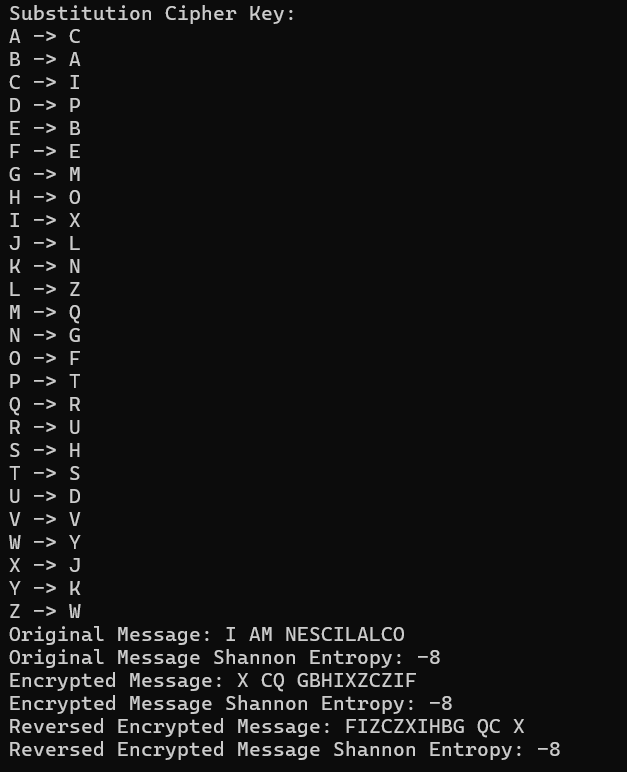
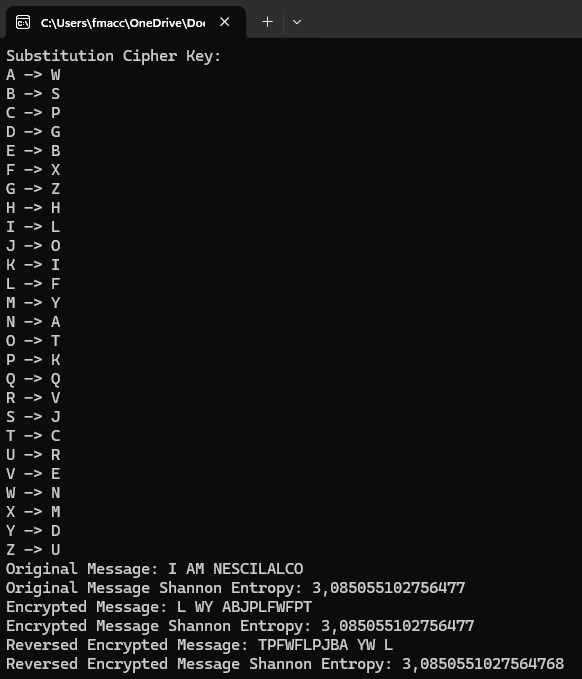
mod

Changed region(s): [[0.0, 0.0, 1.0, 0.9897]]

diff --git a/homework9.html b/homework9.html
@@ -67,6 +67,8 @@
 
                     <h1 class="major">Theory/Research</h1>
 
+                    <h2>Part 1</h2>
+                    <hr>
                     <h2>Main Properties of the Sampling Mean and Variance</h2>
 
                     <h3>Sampling Mean (\( \bar{X} \))</h3>
@@ -150,7 +152,9 @@
             </div>
             <div class="wrapper">
                 <div class="inner">
-                    <h3>Fundamental Ideas of Main Encryption Methods and Their Statistical Properties</h3>
+                    <h2>Part 2</h2>
+                    <hr>
+                    <h2>Fundamental Ideas of Main Encryption Methods and Their Statistical Properties</h2>
 
                     <p>
                         Encryption methods are broadly categorized into <strong>symmetric-key</strong> and
@@ -159,7 +163,7 @@
 
                     <hr>
 
-                    <h4>Symmetric-Key Encryption</h4>
+                    <h3>Symmetric-Key Encryption</h3>
                     <ul>
                         <li><strong>Definition</strong>: The same key is used for both encryption and decryption.</li>
                         <li><strong>Examples</strong>: AES (Advanced Encryption Standard), DES (Data Encryption
@@ -182,7 +186,7 @@
 
                     <hr>
 
-                    <h4>Asymmetric-Key Encryption</h4>
+                    <h3>Asymmetric-Key Encryption</h3>
                     <ul>
                         <li><strong>Definition</strong>: Uses a pair of keys—a public key for encryption and a private
                             key for decryption.</li>
@@ -205,7 +209,7 @@
 
                     <hr>
 
-                    <h4>Hash-Based Methods</h4>
+                    <h3>Hash-Based Methods</h3>
                     <ul>
                         <li><strong>Definition</strong>: Uses cryptographic hash functions to ensure data integrity and
                             authenticity.</li>
@@ -227,7 +231,7 @@
 
                     <hr>
 
-                    <h4>Stream Ciphers</h4>
+                    <h3>Stream Ciphers</h3>
                     <ul>
                         <li><strong>Definition</strong>: Encrypts plaintext one bit or byte at a time, using a
                             pseudorandom key stream.</li>
@@ -246,7 +250,7 @@
 
                     <hr>
 
-                    <h4>Block Ciphers</h4>
+                    <h3>Block Ciphers</h3>
                     <ul>
                         <li><strong>Definition</strong>: Encrypts data in fixed-size blocks (e.g., 128 bits) using a
                             symmetric key.</li>
@@ -267,7 +271,7 @@
 
                     <hr>
 
-                    <h4>Statistical Security Goals of Encryption Methods</h4>
+                    <h3>Statistical Security Goals of Encryption Methods</h3>
 
                     <ul>
                         <li><strong>Confusion</strong>: Ensures that the relationship between the plaintext, key, and
@@ -305,7 +309,8 @@
         <p>Let's see the code and the generated plots:
             <img src="images/HW9/SimulateEmpiricalDistribution.png" alt="Empirical Distribution" />
             <br>
-            The <strong>‘Simulate’</strong> button triggers the same function of Hwk7, where what has changed is shown in the code: we
+            The <strong>‘Simulate’</strong> button triggers the same function of Hwk7, where what has changed is shown
+            in the code: we
             generate 1000 samples of sizes 20, 30 and 100 and for each of these we computed the empirical corrected
             variance and we add it to the <code>empiricalVariances</code> list. Then we compute the means and variances
             of the increasing list of empirical variances and we plot in the two convergence graphs shown below.
@@ -317,7 +322,8 @@
         <h4>How the variance distribution changes with size</h4>
         <p>
             <strong>Mean of the empirical variances:</strong> as the sample size increases, the mean of the empirical
-            variance moves closer to the theoretical variance (red line in the variance' mean convergence graph). Indeed,
+            variance moves closer to the theoretical variance (red line in the variance' mean convergence graph).
+            Indeed,
             the yellow line shown for the 100 size samples is almost overlapping the theoretical variance red line.
             <br>
             <strong>Variance of the empirical variances:</strong> For a rigged die, the variance of the empirical
@@ -340,42 +346,16 @@
         <h3>Part 2</h3>
         <p>
             The <strong>‘Optional Simulation’</strong> button triggers the <code>BtnSimulate_optional_Click</code>
-            method, which also extracts the text from the web pages and calls the <code>OptionalAnalysis</code> method.
+            method, which calls the <code>SubstitutionCipher</code> method.
+            <hr>
+            <img src="images/HW9/SubstitutionCipher.png" alt="SubstitutionCipher" />
             <br>
-            <br>
-            <img src="images/HW8/OptionalAnalysis.png" alt="OptionalAnalysis" />
-            <br>
-            This method converts letters to corresponding numbers and encodes the text using the <strong>modular
-                exponentiation</strong>
-            with the formula \[
-            E = L^e \mod P
-            \], where:
-        <ul>
-            <li>\( E \): Encoded value</li>
-            <li>\( L \): Numeric representation of the letter</li>
-            <li>\( e \): Exponent (public key parameter)</li>
-            <li>\( P \): Modulus (prime number)</li>
-        </ul>
-        <br>
-        <br>
-        The <code>TryFindParameters</code> method allows to determine the \( e \) and \( P \) values basing on encoded
-        values, in case these are not known.
-        <br>
-        <br>
-        <img src="images/HW8/TryFindParameters.png" alt="TryFindParameters" />
-        <br>
-        The <code>possibleEs</code> list contains candidate values for \( e = 3 \) and \( e = 65537 \), which are common
-        choices in
-        cryptography, the loops are done for P values in the range of 2 to 100 and for each combination of P and e,
-        the method tries to decode all values in <code>encodedValues</code>. We can see that retrieved values near the
-        "Optional Simulation" button correspond to the values assigned in the <code>ModularExponentiation</code> method
-        and showed in the legend.
-        <br>
-        The method then proceeds to calculate the distribution of encoded values and the <strong>Shannon
-            entropy</strong>, that
-        measures the uncertainty (or randomness) of the distribution, and to plot the results.
-        <br>
-        <img src="images/HW8/OptionalSimulationPlot.png" alt="Optional Simulation Plot" width="1200" />
+            The method starts by analyzing the plain message "I AM NESCILALCO". The <code>AnalyzeFrequency</code>
+            function calculates the
+            frequency distribution of its characters, showing how often each character appears. The most
+            frequent letters here are "I", "A", and "L", since "I" appears twice, "A" appears twice, etc..
+            <hr>
+            
         </p>
     </div>
     <div class="link-container">
